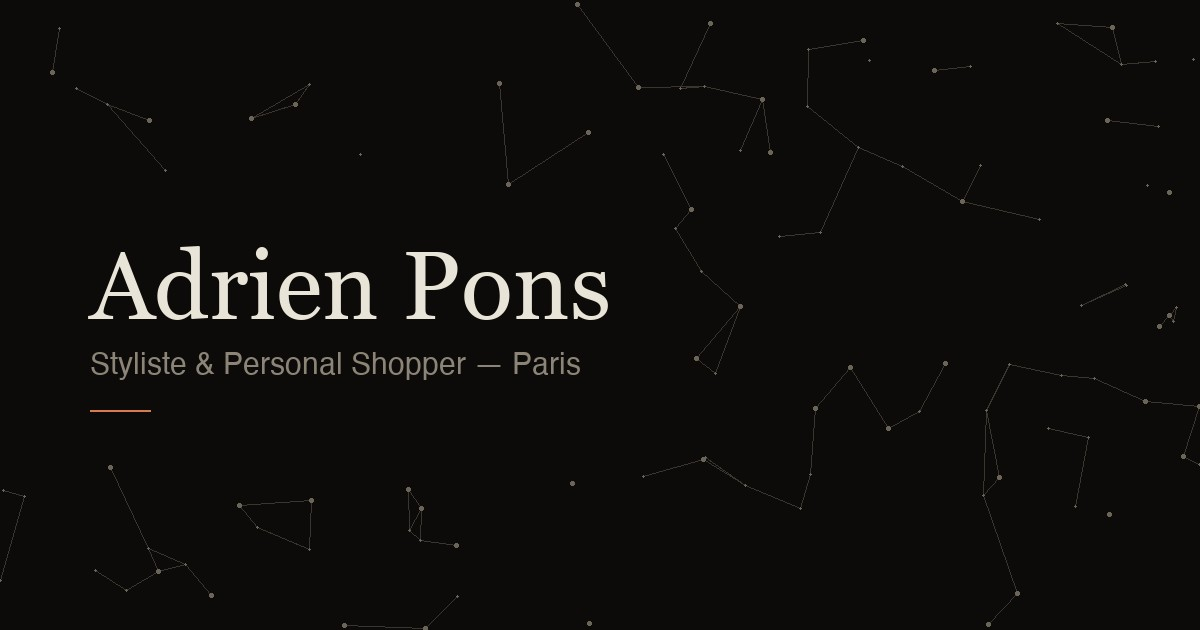
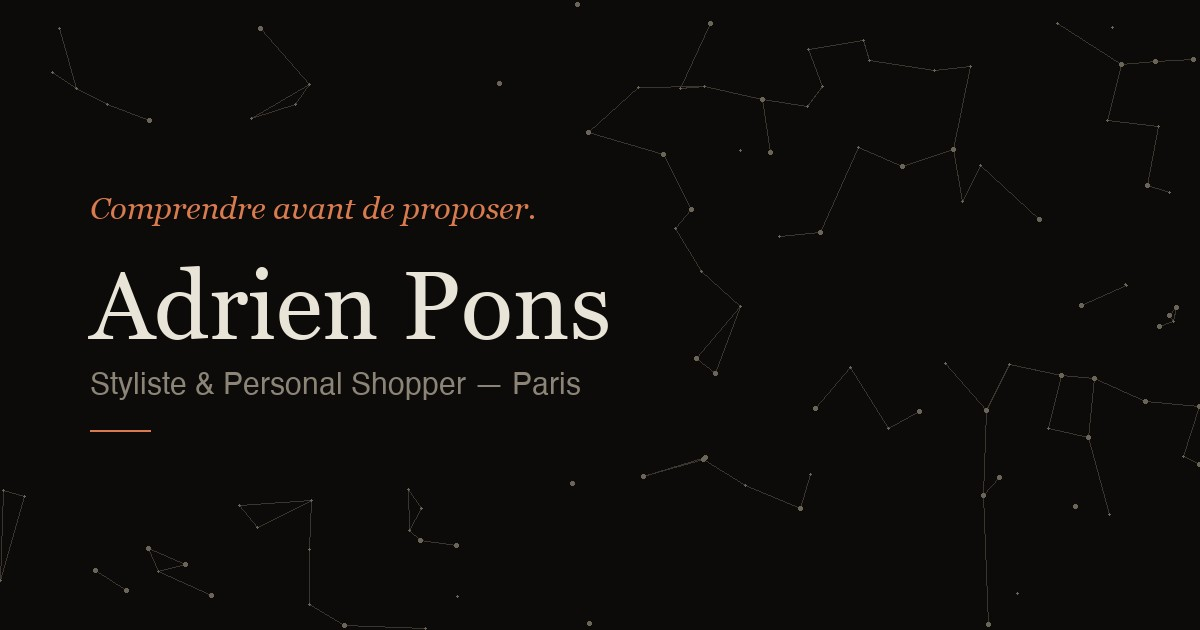
Ton impersonnel (ni je, ni tu, ni vous) : 4 articles + Vestiaire ; Retro Tech corrigé ; Panzani ajouté ; nouvelle accroche visuels

Changed region(s): [[0.0617, 0.3921, 0.5242, 0.6937], [0.0617, 0.3016, 0.4317, 0.3619]]

diff --git a/pages/personal-styling-ou-relooking.html b/pages/personal-styling-ou-relooking.html
@@ -4,11 +4,11 @@
 <meta charset="UTF-8">
 <meta name="viewport" content="width=device-width, initial-scale=1.0">
 <title>Personal Styling ou Relooking : Quelle Différence ? | Adrien Pons, Paris</title>
-<meta name="description" content="Relooking, personal styling, conseil en image, personal shopping : ce qui les distingue, et pourquoi Adrien Pons, styliste à Paris, préfère comprendre plutôt que transformer.">
+<meta name="description" content="Relooking, personal styling, conseil en image, personal shopping : ce qui distingue ces quatre métiers souvent confondus, et pourquoi le style se comprend avant de se changer.">
 <link rel="canonical" href="https://adnpns.github.io/pages/personal-styling-ou-relooking.html">
 <meta property="og:type" content="article">
-<meta property="og:title" content="Personal styling ou relooking : quelle différence ?">
-<meta property="og:description" content="Le relooking transforme. Le personal styling part de ce qui est déjà là. Quatre métiers souvent confondus, expliqués simplement.">
+<meta property="og:title" content="Personal styling ou relooking&amp;nbsp;: quelle différence&amp;nbsp;?">
+<meta property="og:description" content="Relooking, personal styling, conseil en image, personal shopping : ce qui distingue ces quatre métiers souvent confondus, et pourquoi le style se comprend avant de se changer.">
 <meta property="og:url" content="https://adnpns.github.io/pages/personal-styling-ou-relooking.html">
 <meta property="og:locale" content="fr_FR">
 <meta property="og:site_name" content="Adrien Pons">
@@ -17,8 +17,8 @@
 <meta property="og:image:height" content="630">
 <meta property="og:image:alt" content="Adrien Pons — Styliste &amp; Personal Shopper à Paris">
 <meta name="twitter:card" content="summary_large_image">
-<meta name="twitter:title" content="Personal styling ou relooking : quelle différence ?">
-<meta name="twitter:description" content="Le relooking transforme. Le personal styling part de ce qui est déjà là.">
+<meta name="twitter:title" content="Personal styling ou relooking&amp;nbsp;: quelle différence&amp;nbsp;?">
+<meta name="twitter:description" content="Relooking, personal styling, conseil en image, personal shopping : ce qui distingue ces quatre métiers souvent confondus, et pourquoi le style se comprend avant de se changer.">
 <meta name="twitter:image" content="https://adnpns.github.io/images/og-adrien-pons.jpg">
 <link rel="icon" href="../favicon.ico" sizes="any">
 <link rel="icon" type="image/png" href="../favicon-32.png" sizes="32x32">
@@ -59,24 +59,19 @@
     <p class="simple-kicker">Regard</p>
     <h1 class="simple-title voice">Personal styling ou relooking&nbsp;: quelle différence&nbsp;?</h1>
     <div class="simple-body">
-      <p>On me pose souvent la question. Les mots se ressemblent, les promesses aussi. Pourtant, ce ne sont pas du tout les mêmes métiers, ni la même idée de ce qu'est un style.</p>
-
+      <p>Les mots se ressemblent, les promesses aussi. Ce ne sont pourtant pas les mêmes métiers, ni la même idée de ce qu'est un style.</p>
       <h2 class="simple-kicker" style="margin-top:40px;">Le relooking</h2>
-      <p>Le relooking part d'un avant et d'un après. Il y aurait une meilleure version de vous à révéler, et quelqu'un pour vous y emmener. On change la coupe, la couleur, la garde-robe. Le résultat se mesure à la transformation.</p>
-      <p>Ça peut plaire. Mais ça suppose que le style vient de l'extérieur.</p>
-
+      <p>Le relooking part d'un avant et d'un après. Il y aurait une meilleure version à révéler, et quelqu'un pour y mener. Nouvelle coupe, nouvelles couleurs, nouvelle garde-robe : le résultat se mesure à l'ampleur de la transformation.</p>
+      <p>L'approche peut séduire. Elle suppose pourtant que le style vient de l'extérieur.</p>
       <h2 class="simple-kicker" style="margin-top:40px;">Le personal styling</h2>
-      <p>Je pars de l'idée inverse. Vous avez déjà un style, même s'il n'est pas encore formulé. Mon travail, c'est de le comprendre et de lui donner une forme concrète.</p>
-      <p>Moins de questions sur les tendances. Beaucoup plus sur votre quotidien, vos habitudes, ce qui vous met à l'aise, ce que vous n'osez pas encore porter. Le personal styling ne vous transforme pas. Il vous rend plus lisible, à vous-même en premier.</p>
-
+      <p>L'idée inverse. Un style existe déjà, même quand il n'est pas encore formulé. Le travail consiste à le comprendre, puis à lui donner une forme concrète.</p>
+      <p>Peu de questions sur les tendances. Beaucoup sur le quotidien, les habitudes, ce qui met à l'aise, ce qui n'ose pas encore être porté. Le personal styling ne fabrique pas une autre personne. Il rend un style plus lisible, d'abord pour celle ou celui qui le porte.</p>
       <h2 class="simple-kicker" style="margin-top:40px;">Le conseil en image</h2>
-      <p>Le conseil en image va au-delà du vêtement : silhouette, proportions, couleurs, cohérence entre ce que vous portez et ce que vous voulez dégager. Dans ma pratique, il fait partie du personal styling plutôt qu'il ne s'y oppose.</p>
-
+      <p>Le conseil en image va au-delà du vêtement : silhouette, proportions, couleurs, cohérence entre ce qui est porté et ce qui veut être dégagé. Bien pratiqué, il prolonge le personal styling plutôt qu'il ne s'y oppose.</p>
       <h2 class="simple-kicker" style="margin-top:40px;">Le personal shopping</h2>
-      <p>C'est la mission la plus précise. Vous cherchez une pièce. Nous précisons ensemble ce que vous voulez, je pars en recherche et je reviens avec une sélection. Souvent en seconde main ou en vintage, parce que c'est là qu'on trouve les pièces les plus singulières, mais pas par principe.</p>
-
+      <p>La mission la plus précise : une pièce recherchée, une recherche menée, une sélection en retour. Souvent en seconde main ou en vintage, parce que les pièces les plus singulières s'y trouvent. Jamais par principe.</p>
       <h2 class="simple-kicker" style="margin-top:40px;">Comment choisir</h2>
-      <p>Si vous cherchez une pièce précise : <a href="piece-juste.html">la pièce juste</a>. Si vous voulez prendre du recul sur votre style ou repartir de votre vestiaire réel : <a href="regard.html">le regard et le vestiaire</a>. Et si vous ne savez pas encore, c'est normal. On commence par en parler.</p>
+      <p>Pour une pièce précise : <a href="piece-juste.html">la pièce juste</a>. Pour prendre du recul sur un style ou repartir d'un vestiaire réel : <a href="regard.html">le regard et le vestiaire</a>. Et quand rien n'est encore clair, tout commence par une conversation.</p>
     </div>
     <a class="simple-cta" href="contact.html">Prendre rendez-vous</a>
   </div>

diff --git a/pages/personal-shopper-paris.html b/pages/personal-shopper-paris.html
@@ -4,11 +4,11 @@
 <meta charset="UTF-8">
 <meta name="viewport" content="width=device-width, initial-scale=1.0">
 <title>Personal Shopper à Paris : Comment Ça Se Passe ? | Adrien Pons</title>
-<meta name="description" content="Faire appel à un personal shopper à Paris : à quoi ça sert, comment se déroule une recherche, et pourquoi la seconde main y a souvent sa place. Par Adrien Pons, styliste.">
+<meta name="description" content="Personal shopper à Paris : à quoi ça sert, comment se déroule une recherche de pièce, et pourquoi la seconde main y a souvent sa place.">
 <link rel="canonical" href="https://adnpns.github.io/pages/personal-shopper-paris.html">
 <meta property="og:type" content="article">
 <meta property="og:title" content="Personal shopper à Paris&amp;nbsp;: comment ça se passe&amp;nbsp;?">
-<meta property="og:description" content="Faire appel à un personal shopper à Paris : à quoi ça sert, comment se déroule une recherche, et pourquoi la seconde main y a souvent sa place. Par Adrien Pons, styliste.">
+<meta property="og:description" content="Personal shopper à Paris : à quoi ça sert, comment se déroule une recherche de pièce, et pourquoi la seconde main y a souvent sa place.">
 <meta property="og:url" content="https://adnpns.github.io/pages/personal-shopper-paris.html">
 <meta property="og:locale" content="fr_FR">
 <meta property="og:site_name" content="Adrien Pons">
@@ -18,7 +18,7 @@
 <meta property="og:image:alt" content="Adrien Pons — Styliste &amp; Personal Shopper à Paris">
 <meta name="twitter:card" content="summary_large_image">
 <meta name="twitter:title" content="Personal shopper à Paris&amp;nbsp;: comment ça se passe&amp;nbsp;?">
-<meta name="twitter:description" content="Faire appel à un personal shopper à Paris : à quoi ça sert, comment se déroule une recherche, et pourquoi la seconde main y a souvent sa place. Par Adrien Pons, styliste.">
+<meta name="twitter:description" content="Personal shopper à Paris : à quoi ça sert, comment se déroule une recherche de pièce, et pourquoi la seconde main y a souvent sa place.">
 <meta name="twitter:image" content="https://adnpns.github.io/images/og-adrien-pons.jpg">
 <link rel="icon" href="../favicon.ico" sizes="any">
 <link rel="icon" type="image/png" href="../favicon-32.png" sizes="32x32">
@@ -59,20 +59,20 @@
     <p class="simple-kicker">La pièce juste</p>
     <h1 class="simple-title voice">Personal shopper à Paris&nbsp;: comment ça se passe&nbsp;?</h1>
     <div class="simple-body">
-      <p>Un personal shopper, on l'imagine souvent dans un grand magasin, une carte bancaire à la main. Dans ma pratique, c'est plus simple et plus précis : vous cherchez une pièce, je la trouve.</p>
-      <h2 class="simple-kicker" style="margin-top:40px;">Ça commence par une description</h2>
-      <p>Une veste que vous avez en tête depuis des mois. Un pantalon qui tombe exactement comme celui que vous avez usé jusqu'à la corde. Une pièce pour une occasion. Vous me dites tout ce que vous savez : la forme, la matière, la couleur, le budget, ce que vous ne voulez surtout pas.</p>
-      <p>Plus la description est concrète, plus la recherche est juste. Et si elle est floue, c'est normal : on la précise ensemble.</p>
-      <h2 class="simple-kicker" style="margin-top:40px;">Puis je pars en recherche</h2>
-      <p>Boutiques, friperies, dépôts-ventes, plateformes de seconde main, parfois mon propre stock. Je regarde la coupe avant l'étiquette, l'état réel de la pièce, et si elle a une chance de vivre longtemps dans votre vestiaire.</p>
-      <h2 class="simple-kicker" style="margin-top:40px;">Vous recevez une sélection, pas une liste</h2>
-      <p>Je reviens avec quelques propositions choisies, pas avec cinquante liens. Pour chacune, je vous dis pourquoi je l'ai retenue. Vous décidez.</p>
+      <p>Le personal shopper s'imagine souvent dans un grand magasin, une carte bancaire à la main. La réalité peut être plus simple et plus précise : une pièce est recherchée, elle est trouvée.</p>
+      <h2 class="simple-kicker" style="margin-top:40px;">Tout commence par une description</h2>
+      <p>Une veste en tête depuis des mois. Un pantalon qui tombe exactement comme celui usé jusqu'à la corde. Une pièce pour une occasion. Forme, matière, couleur, budget, et surtout ce qui ne doit pas être proposé : chaque détail compte.</p>
+      <p>Plus la description est concrète, plus la recherche est juste. Une description floue est un bon point de départ aussi : elle se précise en échangeant.</p>
+      <h2 class="simple-kicker" style="margin-top:40px;">Puis vient la recherche</h2>
+      <p>Boutiques, friperies, dépôts-ventes, plateformes de seconde main, parfois un stock personnel. La coupe passe avant l'étiquette, l'état réel de la pièce avant sa photo, et la question reste la même : cette pièce a-t-elle une chance de durer ?</p>
+      <h2 class="simple-kicker" style="margin-top:40px;">Une sélection, pas une liste</h2>
+      <p>Le retour se fait avec quelques propositions choisies, pas avec cinquante liens. Chacune arrive avec la raison pour laquelle elle a été retenue. La décision reste à celle ou celui qui la portera.</p>
       <h2 class="simple-kicker" style="margin-top:40px;">Pourquoi la seconde main revient souvent</h2>
-      <p>Parce que c'est là que se trouvent les pièces les plus singulières, et souvent un meilleur rapport qualité-prix. Mais ce n'est pas une règle : si la bonne pièce est neuve, je cherche du neuf.</p>
+      <p>Parce que les pièces les plus singulières s'y trouvent, souvent avec un meilleur rapport qualité-prix. Ce n'est pas une règle : quand la bonne pièce est neuve, la recherche passe par le neuf.</p>
       <h2 class="simple-kicker" style="margin-top:40px;">Pour qui</h2>
-      <p>Pour celles et ceux qui savent ce qu'ils veulent mais n'ont ni le temps ni l'envie de chercher. Et pour celles et ceux qui ne savent pas encore, mais qui sentent qu'il manque quelque chose. Dans ce cas, on commence peut-être plutôt par <a href="regard.html">le regard</a>.</p>
+      <p>Pour celles et ceux qui savent ce qu'ils veulent sans avoir le temps ni l'envie de chercher. Et pour celles et ceux qui sentent qu'il manque quelque chose sans savoir quoi. Dans ce second cas, <a href="regard.html">le regard</a> est souvent un meilleur point de départ.</p>
     </div>
-    <a class="simple-cta" href="piece-juste.html">Décrire la pièce que je cherche</a>
+    <a class="simple-cta" href="piece-juste.html">Décrire une pièce recherchée</a>
   </div>
 </div>
 

diff --git a/pages/styliste-shooting-publicitaire.html b/pages/styliste-shooting-publicitaire.html
@@ -4,11 +4,11 @@
 <meta charset="UTF-8">
 <meta name="viewport" content="width=device-width, initial-scale=1.0">
 <title>Styliste pour Shooting Publicitaire à Paris : le Métier Expliqué | Adrien Pons</title>
-<meta name="description" content="Ce que fait un styliste sur un shooting publicitaire ou un film : brief, références, sourcing, fittings, plateau. Par Adrien Pons, styliste freelance à Paris.">
+<meta name="description" content="Ce que fait un styliste sur un shooting publicitaire ou un film : brief, références, sourcing, fittings, plateau.">
 <link rel="canonical" href="https://adnpns.github.io/pages/styliste-shooting-publicitaire.html">
 <meta property="og:type" content="article">
 <meta property="og:title" content="Styliste pour un shooting publicitaire&amp;nbsp;: ce que fait vraiment le métier">
-<meta property="og:description" content="Ce que fait un styliste sur un shooting publicitaire ou un film : brief, références, sourcing, fittings, plateau. Par Adrien Pons, styliste freelance à Paris.">
+<meta property="og:description" content="Ce que fait un styliste sur un shooting publicitaire ou un film : brief, références, sourcing, fittings, plateau.">
 <meta property="og:url" content="https://adnpns.github.io/pages/styliste-shooting-publicitaire.html">
 <meta property="og:locale" content="fr_FR">
 <meta property="og:site_name" content="Adrien Pons">
@@ -18,7 +18,7 @@
 <meta property="og:image:alt" content="Adrien Pons — Styliste &amp; Personal Shopper à Paris">
 <meta name="twitter:card" content="summary_large_image">
 <meta name="twitter:title" content="Styliste pour un shooting publicitaire&amp;nbsp;: ce que fait vraiment le métier">
-<meta name="twitter:description" content="Ce que fait un styliste sur un shooting publicitaire ou un film : brief, références, sourcing, fittings, plateau. Par Adrien Pons, styliste freelance à Paris.">
+<meta name="twitter:description" content="Ce que fait un styliste sur un shooting publicitaire ou un film : brief, références, sourcing, fittings, plateau.">
 <meta name="twitter:image" content="https://adnpns.github.io/images/og-adrien-pons.jpg">
 <link rel="icon" href="../favicon.ico" sizes="any">
 <link rel="icon" type="image/png" href="../favicon-32.png" sizes="32x32">
@@ -59,19 +59,19 @@
     <p class="simple-kicker">Atelier</p>
     <h1 class="simple-title voice">Styliste pour un shooting publicitaire&nbsp;: ce que fait vraiment le métier</h1>
     <div class="simple-body">
-      <p>Sur un tournage, on voit le styliste au moment des essayages. C'est la partie visible. La plus grande partie du travail se fait avant.</p>
+      <p>Sur un tournage, le styliste se voit surtout au moment des essayages. C'est la partie visible. L'essentiel du travail se fait avant.</p>
       <h2 class="simple-kicker" style="margin-top:40px;">Lire le brief</h2>
-      <p>Une agence ou des créatifs arrivent avec une intention : un personnage, une époque, une ambiance. Mon premier travail, c'est de comprendre ce que le vêtement doit dire, et ce qu'il ne doit surtout pas dire. Une couleur trop proche d'une marque concurrente, un logo visible, un style qui exclut une partie du public.</p>
+      <p>Une agence ou des créatifs arrivent avec une intention : un personnage, une époque, une ambiance. Le premier travail consiste à comprendre ce que le vêtement doit dire, et surtout ce qu'il ne doit pas dire : une couleur trop proche d'une marque concurrente, un logo visible, un style qui exclut une partie du public.</p>
       <h2 class="simple-kicker" style="margin-top:40px;">Construire les références</h2>
-      <p>Je traduis l'intention en planches : silhouettes, matières, palettes, détails. C'est ce document que l'agence et le client valident, souvent en réunion de préproduction.</p>
+      <p>L'intention devient des planches : silhouettes, matières, palettes, détails. C'est ce document que l'agence et le client valident, souvent en réunion de préproduction.</p>
       <h2 class="simple-kicker" style="margin-top:40px;">Trouver les pièces</h2>
-      <p>Seconde main, boutiques, prêts de marques ou de showrooms, location, stock personnel. Chaque projet a ses contraintes de budget et de délai. Le sourcing, c'est souvent là que se joue la justesse d'un personnage.</p>
-      <h2 class="simple-kicker" style="margin-top:40px;">Les fittings</h2>
-      <p>Les essayages transforment toujours les premières intentions. Une pièce parfaite sur la planche peut ne pas fonctionner sur la personne. On ajuste, on remplace, on garde des options de secours.</p>
+      <p>Seconde main, boutiques, prêts de marques et de showrooms, location, stock personnel. Chaque projet a ses contraintes de budget et de délai. C'est souvent au sourcing que se joue la justesse d'un personnage.</p>
+      <h2 class="simple-kicker" style="margin-top:40px;">Les essayages</h2>
+      <p>Les fittings transforment toujours les premières intentions. Une pièce parfaite sur la planche peut ne pas fonctionner sur la personne. Ajuster, remplacer, garder des options de secours.</p>
       <h2 class="simple-kicker" style="margin-top:40px;">Le plateau</h2>
-      <p>Le jour du tournage, je veille à la continuité, je retouche, je propose des alternatives si le réalisateur change d'idée. Puis viennent les retours de prêts et la logistique.</p>
-      <h2 class="simple-kicker" style="margin-top:40px;">Ce que j'y apporte</h2>
-      <p>Un regard qui vient aussi du <a href="vestiaire.html">vintage</a> et de l'écoute des personnes : comprendre avant de choisir. Quelques projets récents sont sur la page <a href="atelier.html">Atelier</a>.</p>
+      <p>Le jour du tournage : continuité, retouches, alternatives quand la réalisation change d'idée. Puis les retours de prêts et la logistique.</p>
+      <h2 class="simple-kicker" style="margin-top:40px;">Un regard venu du vintage</h2>
+      <p>Le <a href="vestiaire.html">vintage</a> et l'écoute des personnes nourrissent le même réflexe : comprendre avant de choisir. Quelques projets récents sont sur la page <a href="atelier.html">Atelier</a>.</p>
     </div>
     <a class="simple-cta" href="contact.html">Discuter d'un projet</a>
   </div>

diff --git a/pages/acheter-seconde-main-sans-se-tromper.html b/pages/acheter-seconde-main-sans-se-tromper.html
@@ -4,11 +4,11 @@
 <meta charset="UTF-8">
 <meta name="viewport" content="width=device-width, initial-scale=1.0">
 <title>Acheter en Seconde Main sans se Tromper : 5 Réflexes de Styliste | Adrien Pons</title>
-<meta name="description" content="Coupe, matière, état, taille, usage : les réflexes d&#x27;un styliste et vintage dealer parisien pour bien acheter en seconde main et en vintage.">
+<meta name="description" content="Coupe, matière, mesures, usure, usage : cinq réflexes de styliste et de vintage dealer pour bien acheter en seconde main et en vintage.">
 <link rel="canonical" href="https://adnpns.github.io/pages/acheter-seconde-main-sans-se-tromper.html">
 <meta property="og:type" content="article">
 <meta property="og:title" content="Acheter en seconde main sans se tromper&amp;nbsp;: cinq réflexes">
-<meta property="og:description" content="Coupe, matière, état, taille, usage : les réflexes d&#x27;un styliste et vintage dealer parisien pour bien acheter en seconde main et en vintage.">
+<meta property="og:description" content="Coupe, matière, mesures, usure, usage : cinq réflexes de styliste et de vintage dealer pour bien acheter en seconde main et en vintage.">
 <meta property="og:url" content="https://adnpns.github.io/pages/acheter-seconde-main-sans-se-tromper.html">
 <meta property="og:locale" content="fr_FR">
 <meta property="og:site_name" content="Adrien Pons">
@@ -18,7 +18,7 @@
 <meta property="og:image:alt" content="Adrien Pons — Styliste &amp; Personal Shopper à Paris">
 <meta name="twitter:card" content="summary_large_image">
 <meta name="twitter:title" content="Acheter en seconde main sans se tromper&amp;nbsp;: cinq réflexes">
-<meta name="twitter:description" content="Coupe, matière, état, taille, usage : les réflexes d&#x27;un styliste et vintage dealer parisien pour bien acheter en seconde main et en vintage.">
+<meta name="twitter:description" content="Coupe, matière, mesures, usure, usage : cinq réflexes de styliste et de vintage dealer pour bien acheter en seconde main et en vintage.">
 <meta name="twitter:image" content="https://adnpns.github.io/images/og-adrien-pons.jpg">
 <link rel="icon" href="../favicon.ico" sizes="any">
 <link rel="icon" type="image/png" href="../favicon-32.png" sizes="32x32">
@@ -59,20 +59,20 @@
     <p class="simple-kicker">Vestiaire</p>
     <h1 class="simple-title voice">Acheter en seconde main sans se tromper&nbsp;: cinq réflexes</h1>
     <div class="simple-body">
-      <p>Je chine depuis 2020. J'ai fait toutes les erreurs : la pièce parfaite en photo et décevante en vrai, la taille « qui devrait aller », le coup de cœur qui n'a jamais quitté le placard. Voici ce que je regarde aujourd'hui, dans l'ordre.</p>
+      <p>La pièce parfaite en photo et décevante en vrai. La taille « qui devrait aller ». Le coup de cœur qui ne quitte jamais le placard. Ces erreurs sont classiques en seconde main. Cinq réflexes suffisent à en éviter la plupart.</p>
       <h2 class="simple-kicker" style="margin-top:40px;">1. La coupe avant la marque</h2>
-      <p>Une belle étiquette sur une coupe qui ne vous va pas reste une pièce qui ne vous va pas. Regardez d'abord les épaules, la longueur, le volume. La marque vient après.</p>
-      <h2 class="simple-kicker" style="margin-top:40px;">2. La matière, et comment elle a vieilli</h2>
-      <p>Une laine qui a bouloché, un coton qui a gardé sa tenue, un cuir qui s'est patiné : la matière raconte comment la pièce va continuer à vivre. Touchez, regardez à la lumière, retournez l'envers.</p>
+      <p>Une belle étiquette sur une coupe qui ne va pas reste une pièce qui ne va pas. D'abord les épaules, la longueur, le volume. La marque ensuite.</p>
+      <h2 class="simple-kicker" style="margin-top:40px;">2. La matière, et la façon dont elle a vieilli</h2>
+      <p>Une laine qui a bouloché, un coton qui a gardé sa tenue, un cuir qui s'est patiné : la matière dit comment la pièce continuera de vivre. Toucher, regarder à la lumière, retourner l'envers.</p>
       <h2 class="simple-kicker" style="margin-top:40px;">3. Les mesures plutôt que la taille</h2>
-      <p>Les tailles changent selon les époques et les pays. Mesurez une pièce que vous aimez porter et comparez avec les mesures de l'annonce. C'est le réflexe qui évite le plus de retours.</p>
-      <h2 class="simple-kicker" style="margin-top:40px;">4. Les points d'usure qui ne se réparent pas</h2>
-      <p>Un bouton se remplace, un ourlet se reprend. Une auréole sous les bras, une matière brûlée ou un col déformé, beaucoup moins. Apprenez à faire la différence entre une pièce qui a vécu et une pièce fatiguée.</p>
+      <p>Les tailles changent selon les époques et les pays. Mesurer une pièce déjà portée avec plaisir, puis comparer avec les mesures de l'annonce : c'est le réflexe qui évite le plus de retours.</p>
+      <h2 class="simple-kicker" style="margin-top:40px;">4. Les usures qui ne se réparent pas</h2>
+      <p>Un bouton se remplace, un ourlet se reprend. Une auréole, une matière brûlée ou un col déformé, beaucoup moins. Toute la différence entre une pièce qui a vécu et une pièce fatiguée.</p>
       <h2 class="simple-kicker" style="margin-top:40px;">5. La question qui compte</h2>
-      <p>Avec quoi je la porte, cette semaine ? Si la réponse ne vient pas, la pièce risque d'attendre longtemps. Une bonne trouvaille trouve sa place tout de suite dans un vestiaire.</p>
-      <p>Et si vous préférez qu'on cherche pour vous : c'est exactement ce que je fais avec <a href="piece-juste.html">la pièce juste</a>.</p>
+      <p>Avec quoi la porter, cette semaine ? Sans réponse immédiate, la pièce risque d'attendre longtemps. Une vraie trouvaille trouve sa place tout de suite dans un vestiaire.</p>
+      <p>Pour déléguer la recherche : <a href="piece-juste.html">la pièce juste</a>.</p>
     </div>
-    <a class="simple-cta" href="piece-juste.html">Me confier une recherche</a>
+    <a class="simple-cta" href="piece-juste.html">Confier une recherche</a>
   </div>
 </div>
 

diff --git a/pages/atelier.html b/pages/atelier.html
@@ -87,7 +87,7 @@
     <ul class="simple-list simple-list-long">
       <li><span>Backmarket — Shake To Trade, Félipé et Ronaldo</span>Deux personnages pour la même mécanique : un passionné de maracas aux pièces fortes d'inspiration sud-américaine, un bartender star de Mulhouse en costume cheap et chemise kitsch. <a class="reel-link" href="https://www.instagram.com/backmarket_fr/reel/DCzV8UyN0js/" target="_blank" rel="noopener">Félipé ↗</a> <a class="reel-link" href="https://www.instagram.com/backmarket_fr/reel/DC4fGxstaFb/" target="_blank" rel="noopener">Ronaldo ↗</a></li>
       <li><span>Backmarket — Shake To Trade, Marjolaine et ses boules à neige</span>Un personnage pour un film de campagne. Construire une châtelaine quinquagénaire, entre ordre, tradition et humour piquant : cardigans, perles, matières nobles, un vestiaire de femme qui reçoit. <a class="reel-link" href="https://www.instagram.com/backmarket_fr/reel/DE7cWTEt9FY/" target="_blank" rel="noopener">Voir le film ↗</a></li>
-      <li><span>Backmarket — Retro Tech</span>Deux silhouettes pour une campagne tech seconde main. Un registre gamer, un registre yéyé vintage : deux façons de faire dialoguer le rétro et l'électronique. <a class="reel-link" href="https://www.instagram.com/backmarket_fr/reel/DHY2Jd4tO2i/" target="_blank" rel="noopener">Voir le film ↗</a></li>
+      <li><span>Backmarket — Retro Tech</span>Le Vlog 2005 : deux silhouettes années 2000 pour une campagne tech seconde main. Velours, taille basse, zip-hoodies et accessoires qui brillent, pour faire dialoguer le rétro et l'électronique. <a class="reel-link" href="https://www.instagram.com/backmarket_fr/reel/DHY2Jd4tO2i/" target="_blank" rel="noopener">Voir le film ↗</a></li>
       <li><span>Backmarket — Gifting Season, les portraits</span>Quatre personas de shoppeurs de fêtes de fin d'année. Construire une garde-robe et une attitude différentes pour chacun, à partir d'un même brief cadeaux.</li>
       <li><span>Dunkin' — ProteinMilk x Basic Fit</span>Stylisme pour un shoot autour du sport et de la routine protéinée. Palette pastel, vestiaire fitness et lifestyle, entre salle de sport et vie quotidienne.</li>
       <li><span>Dunkin' — Match avec ton Match</span>Shoot autour d'un thème de duo assorti. Direction streetwear décontractée, accessoires et couleurs pensés pour fonctionner en tandem.</li>
@@ -97,6 +97,7 @@
       <li><span>Visa — Ski</span>Deux talents, un vestiaire de montagne du quotidien plutôt qu'une panoplie de ski. Polaires, doudounes, pantalons de travail écru : une pièce forte bleu Visa, une pièce blanche, et la superposition pour faire le reste.</li>
       <li><span>Lidl — 90's Ad</span>Un plateau télé des années 90 rejoué au premier degré. Un présentateur en costume gris à épaulettes et cravate trop large, une présentatrice en tailleur couleur douce : très clean, légèrement de mauvais goût, jamais caricatural. <a class="reel-link" href="https://www.instagram.com/p/DH8kFhXtpl_/" target="_blank" rel="noopener">Voir le film ↗</a></li>
       <li><span>Lidl — Injustice, partie 2</span>Des silhouettes lisibles en une seconde à l'écran. Un présentateur crédible en figure journalistique, deux employés de supermarché aux couleurs de leur enseigne : l'exactitude du quotidien plutôt que le costume.</li>
+      <li><span>Panzani — Shoot recettes</span>Six recettes indexées sur l'actualité, de la Braderie de Lille à Halloween. Pour chacune, un univers : vaisselle, accessoires, tenues et lumière au flash, façon paparazzi.</li>
     </ul>
 
     <p class="simple-body"><a href="styliste-shooting-publicitaire.html">Ce que fait vraiment un styliste sur un shooting</a></p>

diff --git a/pages/vestiaire.html b/pages/vestiaire.html
@@ -57,10 +57,10 @@
     <p class="simple-kicker">Vestiaire</p>
     <h1 class="simple-title voice">Ce que je regarde. Ce que je garde.</h1>
     <div class="simple-body">
-      <p>Des pièces, des trouvailles, des objets qui nourrissent mon regard. Une bibliothèque vivante, à explorer dans l'espace.</p>
-      <p>Ce que je regarde d'abord : la coupe, avant la tendance. Une pièce qui tient dans le temps, pas seulement sur une photo.</p>
-      <p>La matière et la façon dont elle vieillit. Le vintage et la seconde main m'intéressent pour ça : une pièce qui a déjà une histoire en raconte une autre, la vôtre.</p>
-      <p>Ce que je garde n'est jamais un uniforme. C'est un vocabulaire dans lequel piocher, qui s'adapte à qui vous êtes ce jour-là.</p>
+      <p>Des pièces, des trouvailles, des objets qui nourrissent un regard. Une bibliothèque vivante, à explorer dans l'espace.</p>
+      <p>D'abord la coupe, avant la tendance. Une pièce qui tient dans le temps, pas seulement sur une photo.</p>
+      <p>Puis la matière, et la façon dont elle vieillit. Tout l'intérêt du vintage et de la seconde main est là : une pièce qui a déjà une histoire peut en raconter une autre.</p>
+      <p>Rien de tout cela ne forme un uniforme. Plutôt un vocabulaire dans lequel piocher, qui change selon la personne et selon le jour.</p>
     </div>
     <div class="simple-body"><p><a href="acheter-seconde-main-sans-se-tromper.html">Acheter en seconde main sans se tromper&nbsp;: cinq réflexes</a></p></div>
     <a class="simple-cta" href="../espace.html">Voir les pièces dans l'espace</a>
